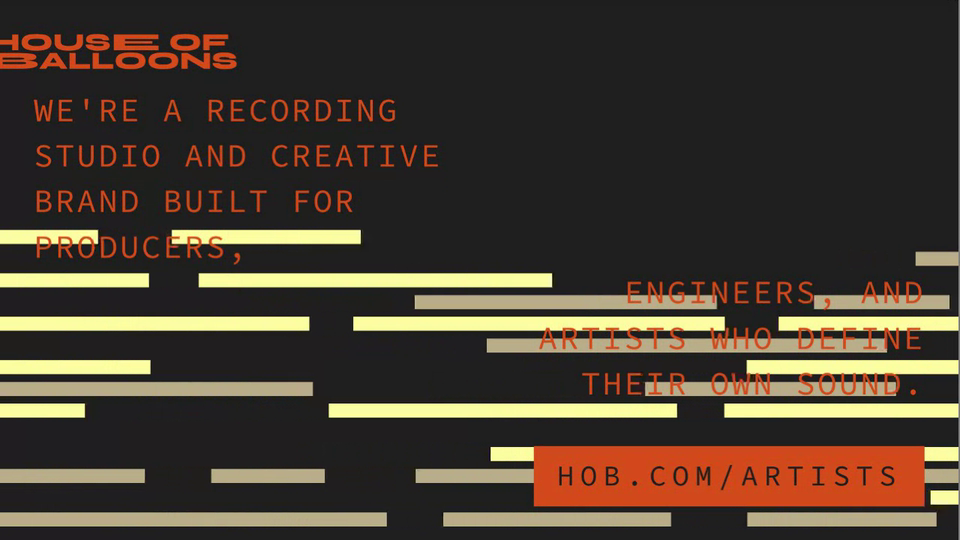
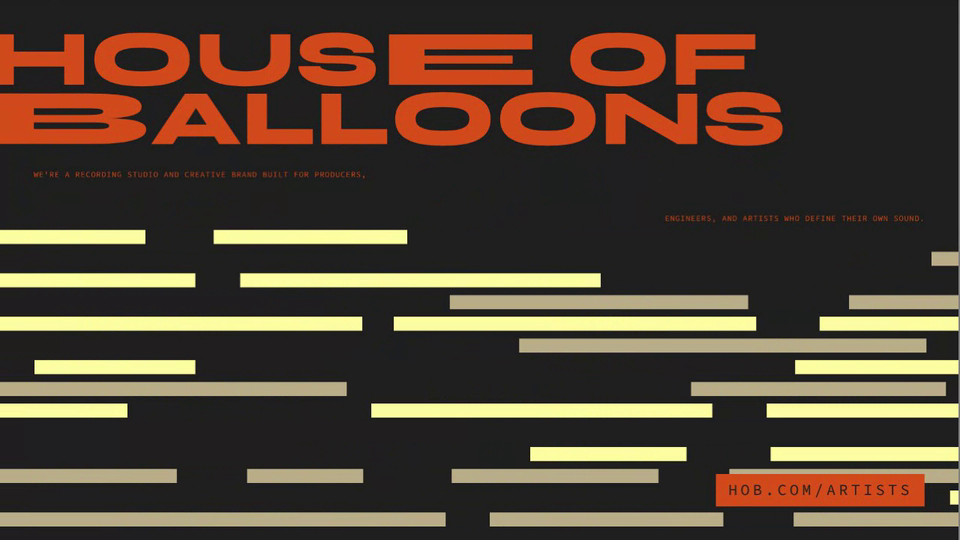
HOB Social Studio: restore lost fixes, landscape text sizing, tag right, headline overlaps image (#474)
Claude-Session: https://claude.ai/code/session_01AHeBdw1yZrTVobosxD3wAX

diff --git a/hob-social-studio/index.html b/hob-social-studio/index.html
@@ -258,7 +258,7 @@ function drawCols(x,y,bw,size,col){
   BOX.b1={x:x+o1[0],y:y+o1[1],w:wa,h:c.a.length*lh};
   BOX.b2={x:x+bw+o2[0]-wb,y:y+o2[1]+4*lh,w:wb,h:c.b.length*lh};
 }
-function tagBox(){const size=W*.03*S.bs/100;ctx.font=MONO(size);ls('.2em');const t=S.tag.toUpperCase();return{t,size,w:ctx.measureText(t).width+size*1.6,h:size*2.1};}
+function tagBox(){const size=U()*.03*S.bs/100;ctx.font=MONO(size);ls('.2em');const t=S.tag.toUpperCase();return{t,size,w:ctx.measureText(t).width+size*1.6,h:size*2.1};}
 function drawTag(x,y,C){
   const b=tagBox();x+=S.off.tag[0];y+=S.off.tag[1];
   ctx.fillStyle=C.tx;ctx.fillRect(Math.round(x),Math.round(y),Math.round(b.w),Math.round(b.h));
@@ -283,11 +283,13 @@ function bars(C,z){
 }
 
 /* ---------- reels keep the top and bottom free for the app's own UI ---------- */
+// text scales with the short side on landscape canvases so it is not oversized
+const U=()=>W>H*1.2?H*.95:W;
 const isReel=()=>H/W>=1.7;
 function safe(){return isReel()?{t:H*.14,b:H*.2}:{t:0,b:0};}
 /* ---------- compose ---------- */
 function paint(tv){
-  T=tv;const C=COMBOS[S.combo],land=W>H*1.2,m=W*.035,L=S.layout,size=W*.034*S.bs/100;
+  T=tv;const C=COMBOS[S.combo],land=W>H*1.2,m=W*.035,L=S.layout,size=U()*.028*S.bs/100;
   ctx.globalAlpha=1;ctx.fillStyle=C.bg;ctx.fillRect(0,0,W,H);
   const tg=tagBox(),gap=m*.8,sT=safe().t,sB=safe().b;let hx=m,hy=sT+m,hw=W-2*m,img=null,regionH=H-2*m,zone=null;
   if(L==='poster'){if(land){hw=W*.5-1.5*m;img={x:W*.5,y:0,w:W*.5,h:H};}}
@@ -298,16 +300,17 @@ function paint(tv){
     zone=top?{y0:0,y1:H*f}:{y0:H*(1-f),y1:H};hy=top?H*f+m:sT+m;regionH=H*(1-f)-2*m-tg.h-(top?sB:sT);
   }
   // a full-width headline runs slightly past both edges
-  const wide=hw===W-2*m,avail=wide?W*1.04:hw,hx0=wide?-W*.012:hx,bx=wide?m:hx,bw=wide?W-2*m:hw;
-  let M=headMetrics(avail,1);const c=cols(bw,size);
-  if(zone&&M.h+gap+c.h>regionH)M=headMetrics(avail,Math.min(1,Math.max(.25,(regionH-gap-c.h)/M.h)));
+  const wide=hw===W-2*m,ovl=(!wide&&land&&img&&L!=='bleed')?W*.035:0,avail=wide?W*1.04:hw+ovl,hx0=wide?-W*.012:(L==='image'?hx-ovl:hx),bx=wide?m:hx,bw=wide?W-2*m:hw;
+  // in the bars layout the sub copy gives way first, so the headline stays big
+  let M=headMetrics(avail,1),bsz=size,c=cols(bw,bsz);
+  if(zone)for(let k=1,n=0;n<12&&M.h+gap+c.h>regionH;n++){k=Math.max(.8,k*.94);M=headMetrics(avail,k);bsz=Math.max(size*.55,bsz*.92);c=cols(bw,bsz);}
   const by=hy+M.h+gap;
   if(L==='poster'&&!land){const top=Math.round(by+c.h+gap);img={x:0,y:top,w:W,h:Math.max(m,H-top)};}
   if(img)drawImage({x:Math.round(img.x),y:Math.round(img.y),w:Math.round(img.w),h:Math.round(img.h)},C);
   if(zone)bars(C,zone);
   drawHead(M,hx0+S.off.head[0],hy+S.off.head[1],C.tx);
-  drawCols(bx,by,bw,size,C.tx);
-  const tx=(land&&L!=='bleed'&&L!=='bars')?hx:W-m-tg.w;
+  drawCols(bx,by,bw,bsz,C.tx);
+  const tx=W-m-tg.w;
   drawTag(tx,H-sB-m-tg.h,C);
   ctx.globalAlpha=1;
 }
@@ -372,7 +375,7 @@ function fit(){
 function buildSwatches(){
   $('combos').innerHTML='';COMBOS.forEach((c,i)=>{const b=document.createElement('button');b.type='button';b.className='sw';b.title=c.n;b.textContent='Aa';b.style.background=c.bg;b.style.color=c.tx;b.setAttribute('aria-pressed',i===S.combo);b.onclick=()=>{S.combo=i;buildSwatches();};$('combos').appendChild(b);});
   $('layouts').innerHTML='';LAYOUTS.forEach(([id,n])=>{const b=document.createElement('button');b.type='button';b.textContent=n;b.setAttribute('aria-pressed',id===S.layout);b.onclick=()=>{S.layout=id;buildSwatches();};$('layouts').appendChild(b);});
-  $('zones').innerHTML='';[['top25','Top 25%'],['top60','Top 60%'],['bot25','Bottom 25%'],['bot60','Bottom 60%']].forEach(([id,n])=>{const b=document.createElement('button');b.type='button';b.textContent=n;b.setAttribute('aria-pressed',id===S.zone);b.onclick=()=>{S.zone=id;buildSwatches();};$('zones').appendChild(b);});
+  $('zones').innerHTML='';[['bot25','Bottom 25%'],['bot60','Bottom 60%']].forEach(([id,n])=>{const b=document.createElement('button');b.type='button';b.textContent=n;b.setAttribute('aria-pressed',id===S.zone);b.onclick=()=>{S.zone=id;buildSwatches();};$('zones').appendChild(b);});
   $('zones').style.display=$('zcap').style.display=S.layout==='bars'?'':'none';
   $('capL').textContent=LAYOUTS.find(l=>l[0]===S.layout)[1]+' · '+COMBOS[S.combo].n;
 }

diff --git a/tools/record-clips.js b/tools/record-clips.js
@@ -93,7 +93,7 @@ const APPS = {
     const t0 = Date.now(), go = (o) => p.evaluate((x) => __hobs.set(x), o);
     await at(t0, 1500, () => go({ layout: 'poster', combo: 0 }));
     await at(t0, 3000, () => go({ layout: 'bleed', combo: 3 }));
-    await at(t0, 4400, () => go({ layout: 'bars', combo: 1, zone: 'top25' }));
+    await at(t0, 4400, () => go({ layout: 'bars', combo: 1, zone: 'bot25' }));
     await at(t0, 5500, () => go({ layout: 'bars', combo: 4, zone: 'bot60' }));
   } },
   'grid-alphabet': { vp: [1280, 769], crop: [0, 49, 1280, 720], hash: '#w=SANDBOX&clip', ready: 500, q: 55, run: async (p) => { const t0 = Date.now(); await at(t0, 700, () => p.evaluate(() => __ga.start())); await sleep(5600); } },
